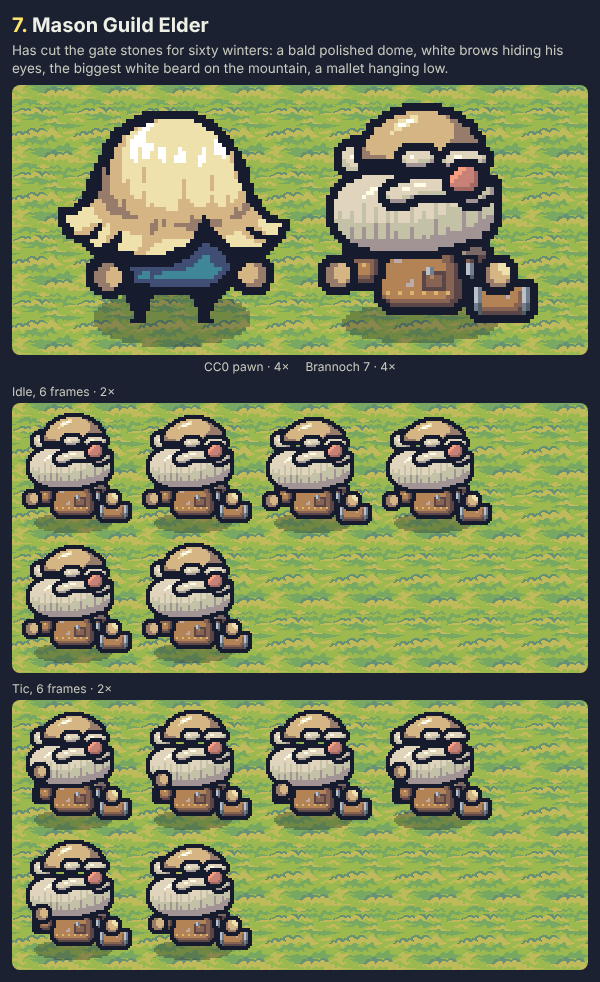
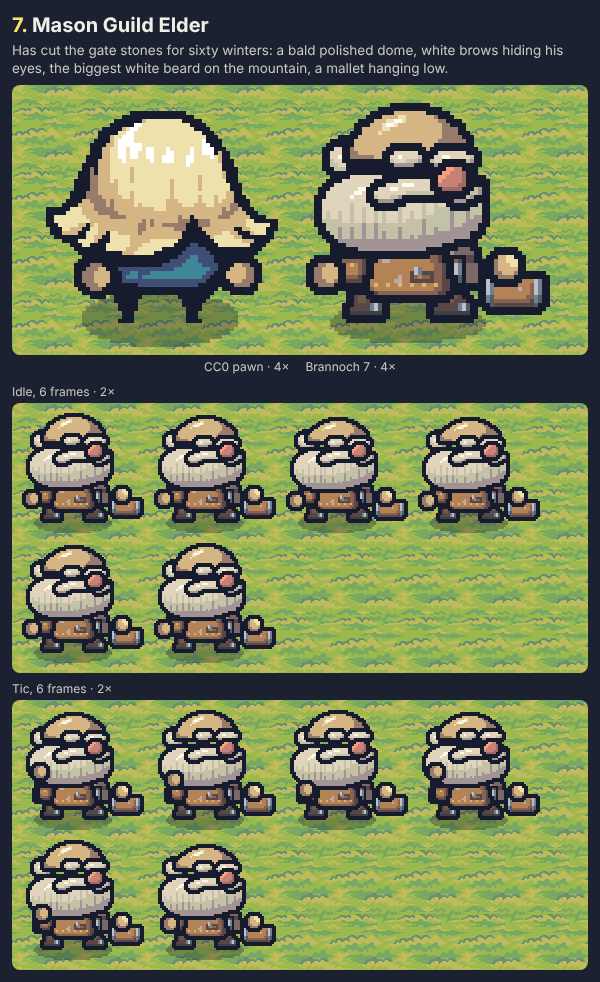
Brannoch d07: his boots show under the hem
The designer picked d07, the Mason Guild Elder, and said: "i dont see his
feet". The leather apron now stops at his boot tops (the smock above still
stops higher, so the stepped hem stays), and two sturdy boots stand planted
wide under it in the pack's nub-foot way: dark leather lit on the shin, an
iron toe cap, a soot-black sole. The near boot is a size up and steps out
past the apron. The mallet and its fist hang further out, clear of the boot.

Two polish passes at 1x, 3x and 8x beside the pack figures; the bands, the
CC0 palette and the prop clearance hold in every frame. New cards:
d07-final.png (before vs after at 4x, a 1x and a 3x line-up) and
d07-final.webp; d07.png, sheet, lineup and the manifest are regenerated.

Claude-Session: https://claude.ai/code/session_018uj2v7KuxpnPRQV4YJVgs7

diff --git a/scripts/designs/brannoch.ts b/scripts/designs/brannoch.ts
@@ -7,6 +7,7 @@
  *   npx tsx scripts/designs/brannoch.ts --preview DIR   # 8× stills + 1×/3× line-ups for the critique rounds
  *   npx tsx scripts/designs/brannoch.ts --cards         # the cards in docs/characters/cards/designs/brannoch/
  *   npx tsx scripts/designs/brannoch.ts --bodies [DIR]  # the top three's own bodies: before/after card + motion (or a preview into DIR)
+ *   npx tsx scripts/designs/brannoch.ts --final [DIR]   # the designer's pick, d07, with his boots: before/after + 1× line-up, and the loop
  *
  * Every figure is a hand-authored pixel map (brannoch-d01.ts … brannoch-d10.ts);
  * brannoch-lib.ts only stamps the pack's outline and composes the frames. The
@@ -22,7 +23,7 @@ import { DESIGNS } from './brannoch-all'
 import { AT, DASH } from './brannoch-common'
 import { BODY_SHARED as D01_SHARED } from './brannoch-d01'
 import { BODY_SHARED as D06_SHARED } from './brannoch-d06'
-import { BODY_SHARED as D07_SHARED } from './brannoch-d07'
+import { BODY_SHARED as D07_SHARED, D07_BEFORE } from './brannoch-d07'
 import { packColours } from './brannoch-pal'
 
 const ROOT = resolve(import.meta.dirname, '..', '..')
@@ -340,8 +341,16 @@ function before(d: Design, b: Bodied): Design {
     ...d,
     id: `${d.id}-shared`,
     parts: d.parts
-      .filter((p) => !p.id.startsWith('body') || p.id === 'body')
-      .map((p) => (p.id === 'body' ? { ...p, x: AT.body[0], y: AT.body[1], rows: b.shared } : moved[p.id] ? { ...p, x: moved[p.id][0], y: moved[p.id][1] } : p)),
+      .filter((p) => (!p.id.startsWith('body') || p.id === 'body') && !p.id.startsWith('boot'))
+      .map((p) =>
+        p.id === 'body'
+          ? { ...p, x: AT.body[0], y: AT.body[1], rows: b.shared }
+          : p.id === 'feet'
+            ? { ...p, hidden: false }
+            : moved[p.id]
+              ? { ...p, x: moved[p.id][0], y: moved[p.id][1] }
+              : p,
+      ),
   }
 }
 
@@ -411,6 +420,62 @@ async function bodies(dir?: string) {
   writeFileSync(mpath, JSON.stringify(keep, null, 2) + '\n')
 }
 
+// ── the designer's pick: d07, the Mason Guild Elder ("i dont see his feet") ──
+
+async function final(dir?: string) {
+  const out = dir ?? OUT
+  mkdirSync(out, { recursive: true })
+  const d = DESIGNS.find((x) => x.id === 'd07')
+  if (!d) throw new Error('no d07')
+  const grass = b64(await sharp(join(PACK, 'grass.png')).png().toBuffer())
+  const pack = await Promise.all(PACK_PEOPLE.map(async (p) => ({ ...p, img: await readPack(p.file) })))
+  const box = frameBox([render(D07_BEFORE), ...idleFrames(d), ...ticFrames(d)])
+  const cut = (img: Rgba) => crop(img, box.x0 - 2, box.y0 - 2, box.x1 - box.x0 + 5, box.y1 - box.y0 + 5)
+  const cell = async (img: Rgba, s: number) => b64(await png(img, s))
+  const ones = (await Promise.all(pack.map(async (p) => `<img src="${await cell(p.img, 1)}">`))).join('') + `<img src="${await cell(cut(render(d)), 1)}">`
+  const threes = (await Promise.all(pack.map(async (p) => `<img src="${await cell(p.img, 3)}">`))).join('') + `<img src="${await cell(cut(render(d)), 3)}">`
+  const html = `<!doctype html><meta charset="utf-8"><style>${CSS(grass)}
+    .wrap{padding:12px;width:576px} h1{font-size:20px;margin:0 0 2px} p{margin:2px 0 6px;color:#c9cbbf;font-size:13px}
+    h2{font-size:15px;margin:12px 0 2px}
+    .two{display:flex;justify-content:space-around;align-items:flex-end;border-radius:8px;padding:8px 4px 2px}
+    figure{margin:0;display:flex;flex-direction:column;align-items:center}
+    figcaption{font-size:12px;color:#fff;text-shadow:0 1px 0 #161c2e,0 0 3px #161c2e;margin:2px 0 4px}
+    .row{display:flex;align-items:flex-end;gap:3px;padding:8px;border-radius:8px;flex-wrap:wrap}
+    </style><div class="wrap"><h1>7. Mason Guild Elder · his boots</h1>
+    <p>The apron now stops at his boot tops, so two dark leather boots with iron toe caps stand planted under the stepped hem. The near boot steps out past the apron, and the mallet hangs clear of it.</p>
+    <div class="two grass"><figure><img src="${await cell(cut(render(D07_BEFORE)), 4)}"><figcaption>Before · the apron to the ground</figcaption></figure>
+    <figure><img src="${await cell(cut(render(d)), 4)}"><figcaption>After · his boots</figcaption></figure></div>
+    <h2>At game size (1×) beside the CC0 pawn, knight, archer and torch goblin</h2><div class="row grass">${ones}</div>
+    <h2>The same at 3×</h2><div class="row grass">${threes}</div></div>`
+  await shoot(html, join(out, 'd07-final.png'), 600)
+  const b = frameBox([...idleFrames(d), ...ticFrames(d)])
+  const bx = Math.max(0, b.x0 - 2), by = Math.max(0, b.y0 - 2)
+  await motion(d, join(out, 'd07-final.webp'), { x: bx, y: by, w: Math.min(W, b.x1 + 3) - bx, h: Math.min(H, b.y1 + 3) - by })
+  if (dir) return
+  type Card = { id: string; group: string; people: string; title: string; caption: string; file: string }
+  const mpath = join(OUT, 'manifest.json')
+  const keep = (JSON.parse(readFileSync(mpath, 'utf8')) as Card[]).filter((m) => !m.id.startsWith('brannoch-d07-final'))
+  keep.push(
+    {
+      id: 'brannoch-d07-final',
+      group: GROUP,
+      people: 'Brannoch',
+      title: '7. Mason Guild Elder · his boots',
+      caption: 'The pick, now with his boots showing under a shorter apron, before and after at 4×, then at 1× and 3× beside the pack. Judge: do his feet read at game size?',
+      file: 'd07-final.png',
+    },
+    {
+      id: 'brannoch-d07-final-motion',
+      group: GROUP,
+      people: 'Brannoch',
+      title: '7. Mason Guild Elder · his boots, motion',
+      caption: 'The idle and the beard-stroke tic with his boots planted. Judge: does he stand firm, and does the tic still read?',
+      file: 'd07-final.webp',
+    },
+  )
+  writeFileSync(mpath, JSON.stringify(keep, null, 2) + '\n')
+}
+
 async function main() {
   const args = process.argv.slice(2)
   const pack = await packColours()
@@ -425,6 +490,11 @@ async function main() {
   if (args.includes('--cards')) {
     if (fail && !args.includes('--force')) throw new Error(`${fail} design(s) out of band: fix them before making cards`)
     await cards()
+  }
+  const fi = args.indexOf('--final')
+  if (fi >= 0) {
+    if (fail && !args.includes('--force')) throw new Error(`${fail} design(s) out of band: fix them before making cards`)
+    await final(args[fi + 1] && !args[fi + 1].startsWith('--') ? args[fi + 1] : undefined)
   }
   const bi = args.indexOf('--bodies')
   if (bi >= 0) {

diff --git a/scripts/designs/brannoch-d07.ts b/scripts/designs/brannoch-d07.ts
@@ -102,10 +102,25 @@ const BODY = [
 ]
 
 /**
- * The long leather mason's apron that hangs below the smock to his boots (the stepped hem is
+ * The leather mason's apron that hangs below the smock to his boot tops (the stepped hem is
  * his silhouette): stone dust ground into it, a stitched pocket with a chisel's steel showing.
  */
 const APRON = [
+  '..VVVVVVVVVVVVVUUu',
+  '..VVTVVVVVVVVVVUUu',
+  '..VTTVVVVVVVVVVUUu',
+  '.VVVVVVVVVVVVVVVUUu',
+  '.VVVVVVVVVVJIVVVUUu',
+  '.VVVVVVVVVuJIuuuUUu',
+  '.VVVVVVTVVuUVUUuUUu',
+  'VVVVVVTTVVuuuuuuUUuu',
+  'VtVVtVVtVVtVVtVVtUuu',
+  'UVVVVVVVVVVVVVVVUUuu',
+  '.uUUUUUUUUUUUUUUUuu',
+]
+
+/** The apron as it hung in the body round, to the ground over his feet (for the before/after card). */
+export const APRON_LONG = [
   '..VVVVVVVVVVVVVUUu',
   '..VVTVVVVVVVVVVUUu',
   '..VTTVVVVVVVVVVUUu',
@@ -120,6 +135,25 @@ const APRON = [
   'UVVVVVVVVVVVVVVVUUuu',
   '.uUUUUUUUUUUUUUUUuu',
   '..uuuuuuuuuuuuuuuu',
+]
+
+/**
+ * His boots, planted wide under the hem in the pack's nub-foot way: dark leather lit
+ * on the shin, an iron toe cap, a soot-black sole; the near boot a size up and its toe out past the apron.
+ */
+const BOOT_B = [
+  '.ubbbu..',
+  '.ubbuuu.',
+  '.uuuuIJi',
+  'uuuuuIJi',
+  'zzzzzzzz',
+]
+const BOOT_F = [
+  '.ubbbbu..',
+  '.ubbbuuu.',
+  '.uuuuuIJi',
+  'uuuuuuIJi',
+  'zzzzzzzzz',
 ]
 
 /** A leather pouch on the back hip, its flap held by a brass stud. */
@@ -163,7 +197,9 @@ export const D07: Design = {
   headBottom: 56,
   parts: [
     { id: 'shadow', group: 'feet', x: AT.shadow[0], y: AT.shadow[1], rows: SHADOW, ring: 0 },
-    { id: 'feet', group: 'feet', x: AT.feet[0], y: AT.feet[1], rows: FEET, ring: 0 },
+    { id: 'feet', group: 'feet', x: AT.feet[0], y: AT.feet[1], rows: FEET, ring: 0, hidden: true },
+    { id: 'bootB', group: 'feet', x: 36, y: 66, rows: BOOT_B },
+    { id: 'bootF', group: 'feet', x: 57, y: 66, rows: BOOT_F },
     { id: 'body', group: 'body', x: 32, y: 52, rows: BODY },
     { id: 'bodyPouch', group: 'body', x: 34, y: 57, rows: POUCH },
     { id: 'bodyChisel', group: 'body', x: 61, y: 57, rows: CHISEL, ring: 1 },
@@ -174,9 +210,9 @@ export const D07: Design = {
     { id: 'brows', group: 'head', x: 46, y: 30, rows: BROWS },
     { id: 'moustache', group: 'head', x: 42, y: 37, rows: MOUSTACHE },
     { id: 'nose', group: 'head', x: 58, y: 34, rows: NOSE },
-    { id: 'mallet', group: 'prop', x: 64, y: 61, rows: MALLET },
+    { id: 'mallet', group: 'prop', x: 70, y: 59, rows: MALLET },
     { id: 'handB', group: 'hands', x: 27, y: 58, rows: FIST_B },
-    { id: 'handF', group: 'hands', x: 67, y: 58, rows: FIST_F },
+    { id: 'handF', group: 'hands', x: 72, y: 56, rows: FIST_F },
   ],
   idle: [
     {},
@@ -197,4 +233,20 @@ export const D07: Design = {
     { nudge: { handB: [3, -1] }, squash: 2, sag: 1 },
   ],
   ticMs: [260, 280, 300, 240, 300, 320],
+}
+
+/** The body round's d07, before the boots: the apron to the ground, the pack's ink stub feet under it. */
+export const D07_BEFORE: Design = {
+  ...D07,
+  id: 'd07-apron',
+  parts: D07.parts
+    .filter((p) => !p.id.startsWith('boot'))
+    .map((p) => {
+      if (p.id === 'feet') return { ...p, hidden: false }
+      if (p.id === 'bodyApron') return { ...p, rows: APRON_LONG }
+      // where the mallet and its fist hung before the near boot stepped out
+      if (p.id === 'mallet') return { ...p, x: 64, y: 61 }
+      if (p.id === 'handF') return { ...p, x: 67, y: 58 }
+      return p
+    }),
 }
